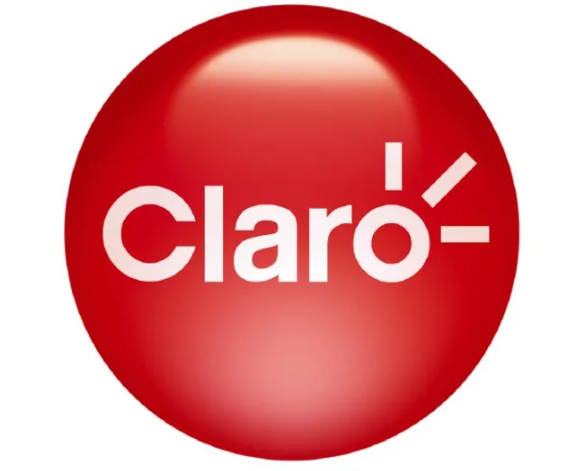
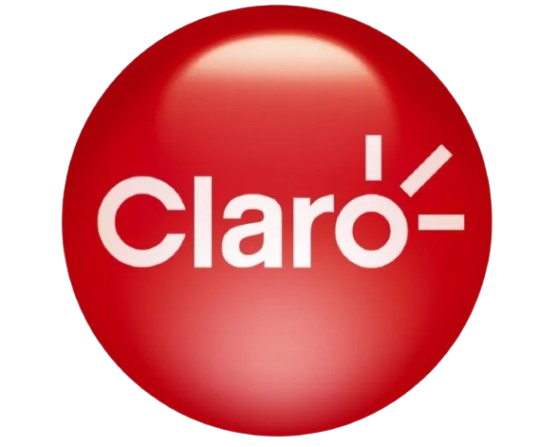
cambio de nombre de imagenes

diff --git a/style.css b/style.css
@@ -16,10 +16,17 @@ body {
 }
 
 .linea-superior {
-  height: 10px;
-  background-color: #00bcd4;
+  height: 12px;
+  background:  #00a9cc;
   width: 100%;
 }
+.linea-superior2 {
+  height: 11px;
+  background:  #018eb2;
+  width: 100%;
+}
+
+
 
 .contenido-card {
   display: flex;
@@ -54,26 +61,29 @@ body {
 
 .nombre {
   font-size: 1.8rem;
-  color: #007acc;
   margin: 0;
+  font-family: 'Times New Roman', Times, serif;
 }
 
 .profesion {
-  font-size: 1.5rem;
+  font-size: 1.7rem;
   font-weight: bold;
   margin: 0.2rem 0;
   color : #01188d;
+  font-family: 'Times New Roman', Times, serif;
 }
 
 .descripcion {
   margin: 1rem 0;
   line-height: 1.5;
   color: #021379;
+  font-family: Arial, Helvetica, sans-serif;
 }
 
 .contacto .dato {
   display: flex;
   align-items: center;
+  text-align: justify;
   margin: 0.5rem 0;
   font-size: 0.95rem;
 }
@@ -82,6 +92,7 @@ body {
   display: block;
   text-decoration: none;
   margin: 2px 0;
+  text-align: justify;
 }
 
 
@@ -119,7 +130,7 @@ body {
   }
 
   .derecha {
-    padding-top: 1.5rem;
+    padding-bottom: -.2rem;
   }
 
   .dato {

diff --git a/index.html b/index.html
@@ -10,16 +10,17 @@
   <div class="card">
    
     <div class="linea-superior"></div>
+    <div class="linea-superior2"></div>
   
     <div class="contenido-card">
       
       <div class="izquierda">
-        <img src="imagenes/Logo.jpeg" alt="Logo" class="logo">
+        <img src="imagenes/Logo.png" alt="Logo" class="logo">
       </div>
 
       <div class="derecha">
         <h1 class="nombre">Ing. Arlen Donaire</h1>
-        <p class="profesion">Ingeniero Eléctrico</p>
+        <h1 class="profesion">Ingeniero Eléctrico</h1>
         <p class="descripcion">
           Diseño, supervisión y asesoria de sistemas de instalaciones
           eléctricas en baja y media tensión 
